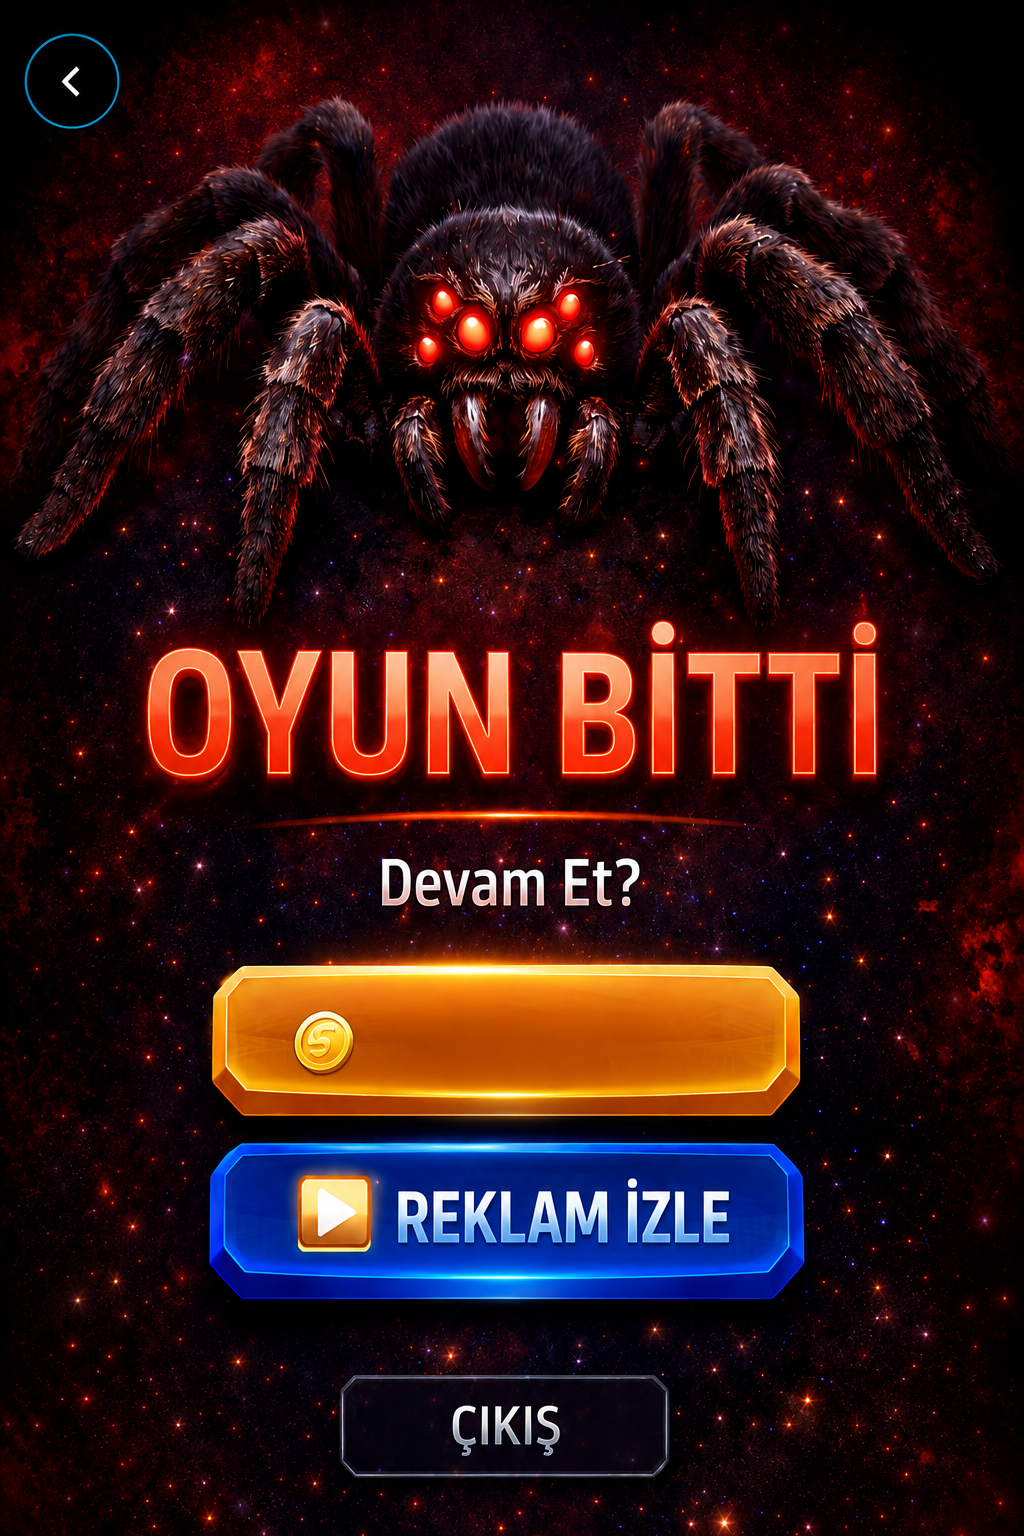
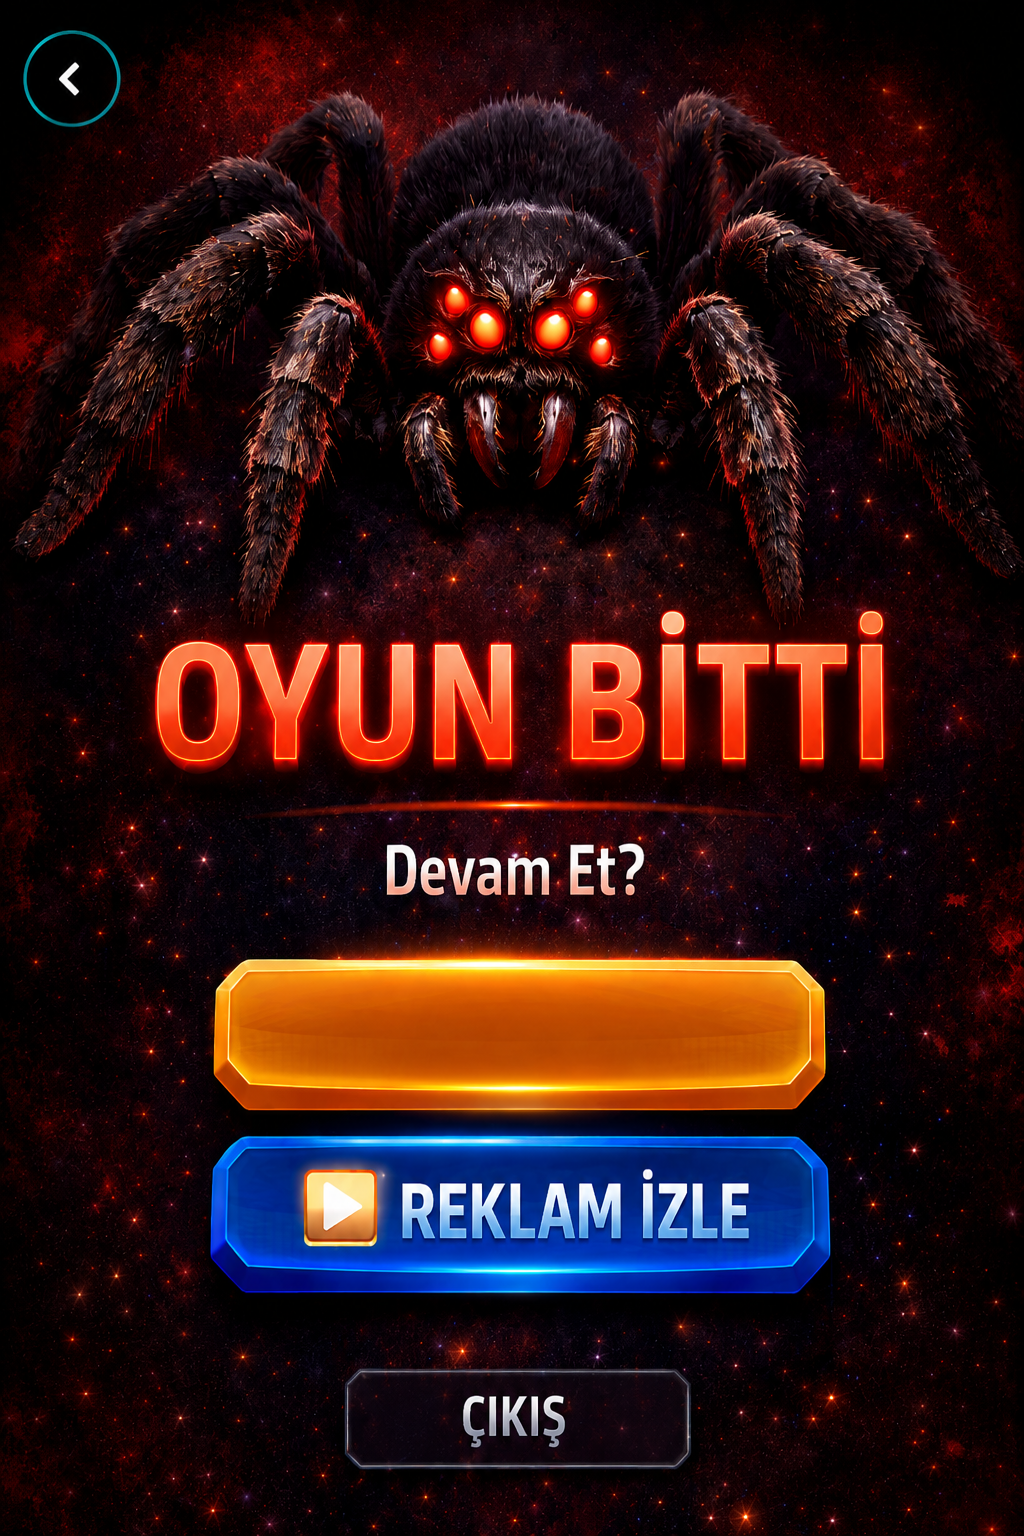
fix: gameover TR — new PNG (no coin in button) + unified overlay
New gameover_tr.png has empty orange button like EN version.
Overlay now shows coin icon + TR text at y=62.5% for TR locale.

diff --git a/mobile/lib/screens/gameover_screen.dart b/mobile/lib/screens/gameover_screen.dart
@@ -44,60 +44,35 @@ class _GameoverScreenState extends State<GameoverScreen> {
           },
           onNavigate: (target, id) => _navigate(context, target, id),
           overlayBuilder: (size) => [
-            // TR PNG'de coin ikonu zaten çizili ve buton daha aşağıda
-            if (isTurkish())
-              Positioned(
-                left: size.width * 0.26,
-                top: size.height * 0.625,
-                width: size.width * 0.60,
-                height: size.height * 0.09,
-                child: IgnorePointer(
-                  child: Center(
-                    child: Text(
-                      '$continueCost TOKEN KULLAN',
-                      style: TextStyle(
-                        fontSize: size.height * 0.024,
-                        fontWeight: FontWeight.w900,
-                        color: Colors.white,
-                        letterSpacing: 0.5,
-                        shadows: const [
-                          Shadow(color: Colors.black, blurRadius: 6, offset: Offset(0, 2)),
-                        ],
+            Positioned(
+              left: size.width * 0.14,
+              top: size.height * (isTurkish() ? 0.625 : 0.54),
+              width: size.width * 0.72,
+              height: size.height * 0.09,
+              child: IgnorePointer(
+                child: Center(
+                  child: Row(
+                    mainAxisSize: MainAxisSize.min,
+                    mainAxisAlignment: MainAxisAlignment.center,
+                    children: [
+                      Image.asset(
+                        'assets/ui/coin_icon.png',
+                        width: size.height * 0.040,
+                        height: size.height * 0.040,
                       ),
-                    ),
-                  ),
-                ),
-              )
-            else
-              Positioned(
-                left: size.width * 0.14,
-                top: size.height * 0.54,
-                width: size.width * 0.72,
-                height: size.height * 0.09,
-                child: IgnorePointer(
-                  child: Center(
-                    child: Row(
-                      mainAxisSize: MainAxisSize.min,
-                      mainAxisAlignment: MainAxisAlignment.center,
-                      children: [
-                        Image.asset(
-                          'assets/ui/coin_icon.png',
-                          width: size.height * 0.040,
-                          height: size.height * 0.040,
+                      SizedBox(width: size.width * 0.02),
+                      Text(
+                        isTurkish() ? '$continueCost TOKEN KULLAN' : 'USE $continueCost TOKENS',
+                        style: TextStyle(
+                          fontSize: size.height * 0.024,
+                          fontWeight: FontWeight.w900,
+                          color: Colors.white,
+                          letterSpacing: 0.5,
+                          shadows: const [
+                            Shadow(color: Colors.black, blurRadius: 6, offset: Offset(0, 2)),
+                          ],
                         ),
-                        SizedBox(width: size.width * 0.02),
-                        Text(
-                          'USE $continueCost TOKENS',
-                          style: TextStyle(
-                            fontSize: size.height * 0.024,
-                            fontWeight: FontWeight.w900,
-                            color: Colors.white,
-                            letterSpacing: 0.5,
-                            shadows: const [
-                              Shadow(color: Colors.black, blurRadius: 6, offset: Offset(0, 2)),
-                            ],
-                          ),
-                        ),
+                      ),
                       ],
                     ),
                   ),
